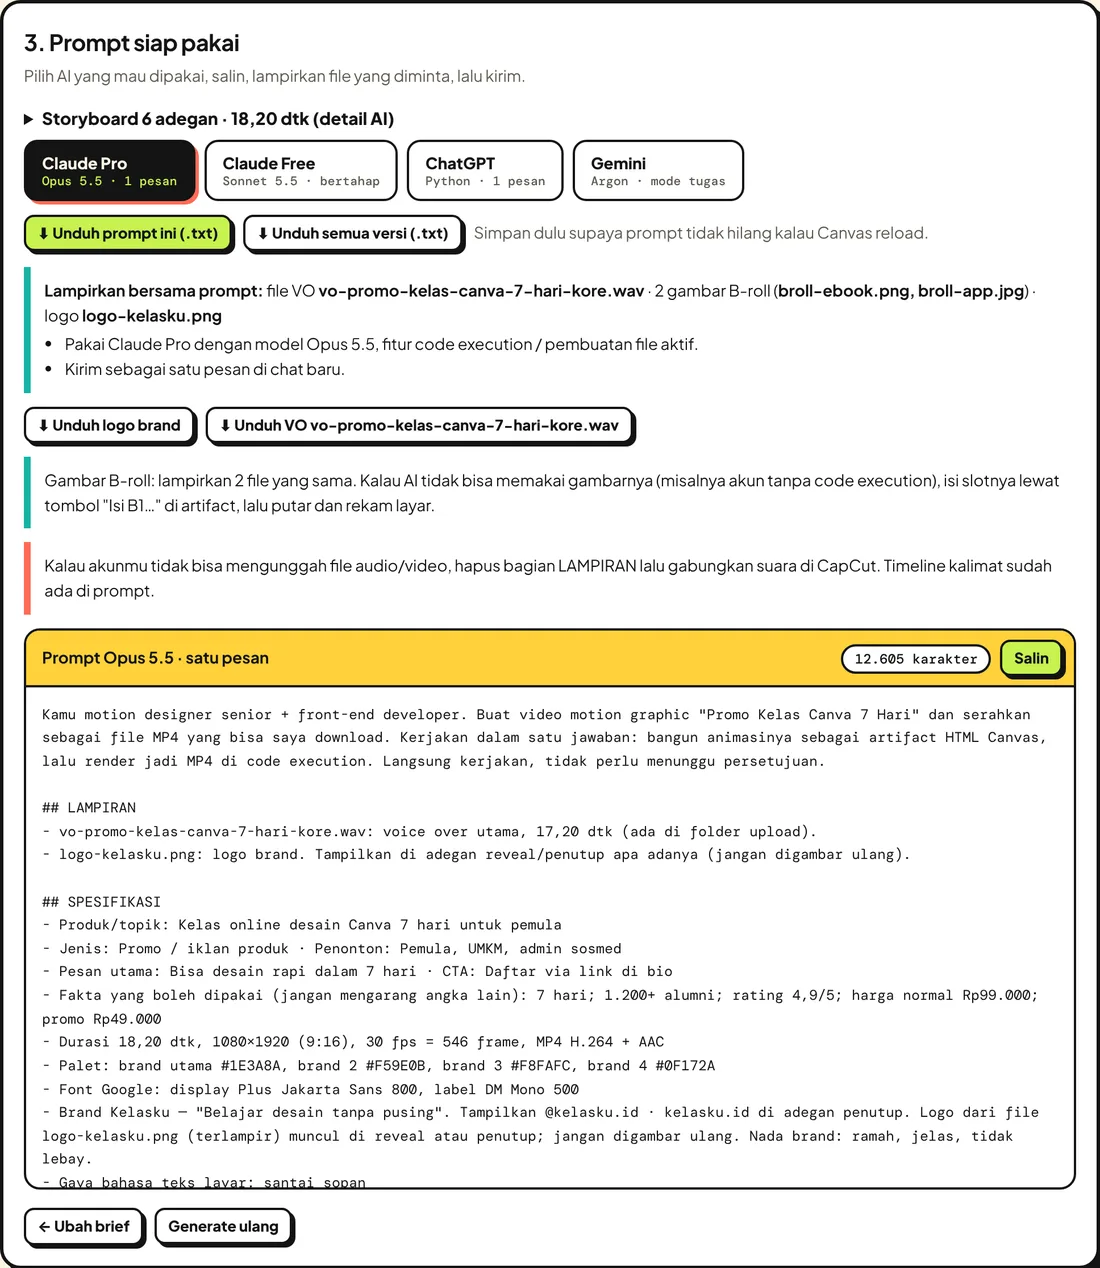
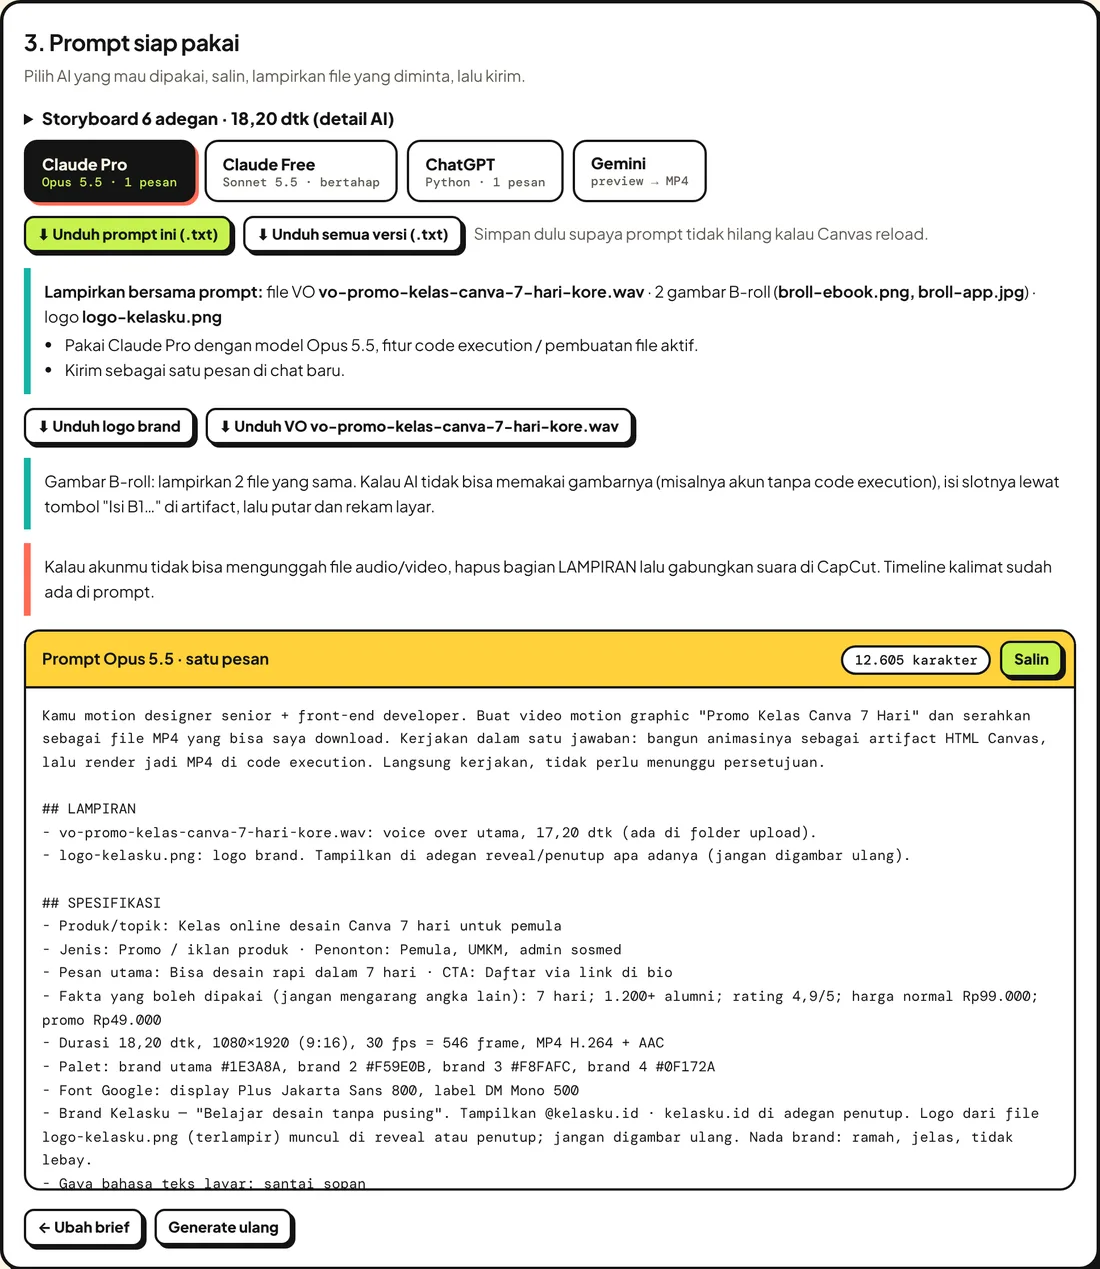
LP AI Brief Motion Generator: hapus penyebutan model/mode Gemini
Claude-Session: https://claude.ai/code/session_011A7tW9cZToXJy6dBYscbB1

diff --git a/ai-brief-motion-generator/index.html b/ai-brief-motion-generator/index.html
@@ -4,7 +4,7 @@
 <meta charset="utf-8">
 <meta name="viewport" content="width=device-width,initial-scale=1">
 <title>AI Brief Motion Generator Upgrade V1 · Prompt video motion graphic + 11 bonus</title>
-<meta name="description" content="AI Brief Motion Generator Upgrade V1: ide, MP3 VO, screenshot, atau video talking head jadi prompt video motion graphic untuk Claude, ChatGPT, dan Gemini (render MP4 langsung di Gemini mode Tugas). Brand Kit, naskah VO & suara, 50 gaya, plus 11 bonus. Rp50.000 sekali bayar.">
+<meta name="description" content="AI Brief Motion Generator Upgrade V1: ide, MP3 VO, screenshot, atau video talking head jadi prompt video motion graphic untuk Claude, ChatGPT, dan Gemini (render MP4 langsung di Gemini). Brand Kit, naskah VO & suara, 50 gaya, plus 11 bonus. Rp50.000 sekali bayar.">
 <link rel="canonical" href="https://studio.creatorsenja.com/ai-brief-motion-generator/">
 <meta property="og:type" content="website">
 <meta property="og:url" content="https://studio.creatorsenja.com/ai-brief-motion-generator/">
@@ -506,7 +506,7 @@ footer small{font:500 12px var(--mono);color:var(--muted)}
           <p>Pilih versi Claude Pro, Claude Free, ChatGPT, atau Gemini. Salin, lampirkan file yang diminta, lalu kirim. AI membangun animasinya dan merender MP4.</p>
           <ul><li>Daftar lampiran ditulis otomatis</li><li>Unduh prompt (.txt) supaya tidak hilang</li></ul>
         </div>
-        <figure class="shot tall"><div class="bar"><i></i><i></i><i></i>Prompt siap pakai</div><img src="img/up-prompt.webp" width="1100" height="1268" alt="Langkah 3: tab Claude Pro, Claude Free, ChatGPT, Gemini, tombol unduh, daftar lampiran, dan isi prompt" loading="lazy"></figure>
+        <figure class="shot tall"><div class="bar"><i></i><i></i><i></i>Prompt siap pakai</div><img src="img/up-prompt.webp" width="1100" height="1269" alt="Langkah 3: tab Claude Pro, Claude Free, ChatGPT, Gemini, tombol unduh, daftar lampiran, dan isi prompt" loading="lazy"></figure>
       </article>
     </div>
   </div>
@@ -584,7 +584,7 @@ footer small{font:500 12px var(--mono);color:var(--muted)}
       <article class="eng"><span class="lbl">CLAUDE PRO · OPUS 5.5</span><h3>Satu pesan, langsung MP4</h3><ul><li>Animasi dibangun sebagai artifact HTML</li><li>Dirender jadi MP4 di code execution</li><li>Kirim MP4, gambar kontak, dan tabel storyboard</li></ul><span class="for">Hasil paling halus</span></article>
       <article class="eng"><span class="lbl">CLAUDE FREE · SONNET 5.5</span><h3>Bertahap, hemat batas chat</h3><ul><li>Dipecah jadi 2–3 pesan berurutan</li><li>Artifact dulu, lalu render</li><li>Kalau render tidak bisa, putar artifact lalu rekam layar</li></ul><span class="for">Untuk akun gratis</span></article>
       <article class="eng"><span class="lbl">CHATGPT · PYTHON</span><h3>Render di Code Interpreter</h3><ul><li>Gambar per frame dengan Python</li><li>Render per adegan supaya tidak terputus</li><li>Ada pesan cadangan kalau render berhenti</li></ul><span class="for">Untuk pengguna ChatGPT</span></article>
-      <article class="eng gem"><span class="lbl">GEMINI · ARGON MODE TUGAS</span><span class="new">BARU</span><h3>Preview, revisi, lalu render MP4</h3><ul><li>Preview animasi tampil di Canvas, revisi sampai pas</li><li>Ketik "render final", Gemini merender MP4 1080×1920</li><li>Suara rapi di −14 LUFS, plus thumbnail &amp; subtitle .srt</li><li>Skill Gemini siap pasang supaya prompt lebih hemat</li></ul><span class="for">Untuk pelanggan Google AI Pro/Ultra</span></article>
+      <article class="eng gem"><span class="lbl">GEMINI · PREVIEW → MP4</span><span class="new">BARU</span><h3>Preview, revisi, lalu render MP4</h3><ul><li>Preview animasi tampil di Canvas, revisi sampai pas</li><li>Ketik "render final", Gemini merender MP4 1080×1920</li><li>Suara rapi di −14 LUFS, plus thumbnail &amp; subtitle .srt</li><li>Skill Gemini siap pasang supaya prompt lebih hemat</li></ul><span class="for">Untuk pelanggan Google AI Pro/Ultra</span></article>
     </div>
     <p class="note"><b>Jujur dari awal:</b> aplikasi ini membuat <b>prompt</b>. Video MP4-nya dibuat oleh Claude, ChatGPT, atau Gemini di akunmu, jadi hasil akhirnya tergantung fitur akun yang kamu pakai.</p>
   </div>
@@ -704,11 +704,11 @@ footer small{font:500 12px var(--mono);color:var(--muted)}
     <h2>Pertanyaan yang <span class="hl">sering muncul.</span></h2>
     <div>
       <details open><summary>Apakah aplikasi ini langsung membuat video?</summary><div class="a"><p>Tidak. Aplikasi ini membuat <b>prompt</b> yang sangat detail. Prompt itu kamu tempel ke Claude, ChatGPT, atau Gemini, lalu AI tersebut yang membangun animasi dan merender MP4-nya.</p></div></details>
-      <details><summary>Bisa bikin videonya langsung di Gemini?</summary><div class="a"><p>Bisa. Pilih tab <b>Gemini</b> di aplikasi, lalu kirim prompt-nya ke Gemini model Argon di <b>mode Tugas</b>. Gemini membangun preview yang bisa kamu revisi, lalu merender MP4 1080×1920 setelah kamu ketik "render final".</p><p>Fitur render ini butuh langganan Google AI Pro atau Ultra. Pemakaian dihitung dari kuota Gemini-mu, jadi revisi di preview dulu dan render sekali di akhir.</p></div></details>
+      <details><summary>Bisa bikin videonya langsung di Gemini?</summary><div class="a"><p>Bisa. Pilih tab <b>Gemini</b> di aplikasi, lalu kirim prompt-nya ke Gemini. Gemini membangun preview yang bisa kamu revisi, lalu merender MP4 1080×1920 setelah kamu ketik "render final".</p><p>Fitur render ini butuh langganan Google AI Pro atau Ultra. Petunjuk lengkap memilih model ada di halaman akses setelah pembelian. Pemakaian dihitung dari kuota Gemini-mu, jadi revisi di preview dulu dan render sekali di akhir.</p></div></details>
       <details><summary>Apa itu Upgrade V1?</summary><div class="a"><p>Versi terbaru AI Brief Motion Generator. Tambahannya: pengaturan durasi dan jumlah adegan di awal, rekomendasi gaya yang menjelaskan alasannya, pratinjau gerak 50 gaya, Brand Kit, naskah VO dan suara, format prompt Hybrid, serta simpan dan buka proyek.</p></div></details>
       <details><summary>Saya pembeli versi sebelumnya. Dapat upgrade?</summary><div class="a"><p>Dapat. Buka lagi halaman akses dari link pembelianmu. Link aplikasi Upgrade V1 dan semua file bonus sudah ditambahkan di sana.</p></div></details>
       <details><summary>Apa bedanya dengan ikut kursus motion graphic?</summary><div class="a"><p>Kursus mengajarkan skill membuat animasi sendiri, cocok kalau ingin jadi motion designer. Aplikasi ini membuat brief teknis supaya AI yang mengerjakan videonya, cocok kalau kamu butuh video sekarang untuk jualan atau konten. Perbandingan lengkapnya ada di bagian "Kursus atau aplikasi?" di atas.</p></div></details>
-      <details><summary>Perlu bayar Gemini atau API key?</summary><div class="a"><p>Tidak. Aplikasi berjalan di Gemini Canvas memakai akun Google-mu sendiri, tanpa API key tambahan. Langganan Google AI Pro/Ultra hanya perlu kalau kamu ingin merender MP4 di Gemini mode Tugas.</p></div></details>
+      <details><summary>Perlu bayar Gemini atau API key?</summary><div class="a"><p>Tidak. Aplikasi berjalan di Gemini Canvas memakai akun Google-mu sendiri, tanpa API key tambahan. Langganan Google AI Pro/Ultra hanya perlu kalau kamu ingin merender MP4 di Gemini.</p></div></details>
       <details><summary>Bisa dipakai dengan Claude gratis?</summary><div class="a"><p>Bisa. Ada versi khusus Claude Free (Sonnet 5.5) yang dikirim bertahap supaya tidak terpotong. Kalau akunmu belum bisa merender MP4, animasinya tetap bisa diputar di artifact lalu direkam layar.</p><p>Hasil paling lancar didapat dengan Claude Pro (Opus 5.5) atau ChatGPT dengan Code Interpreter aktif.</p></div></details>
       <details><summary>Bisa dipakai di HP?</summary><div class="a"><p>Bisa. Gemini Canvas, Claude, dan ChatGPT semuanya bisa dibuka di browser HP. Unggah file MP3, screenshot, atau foto produk juga bisa dari HP.</p></div></details>
       <details><summary>Apakah hasilnya langsung sempurna?</summary><div class="a"><p>Biasanya sudah rapi di percobaan pertama, tapi AI tetap bisa salah sesekali. Karena itu setiap prompt memuat bagian QA dan aturan revisi. Cukup sebut satu masalah per pesan, misalnya "adegan 3: teksnya terpotong".</p></div></details>
